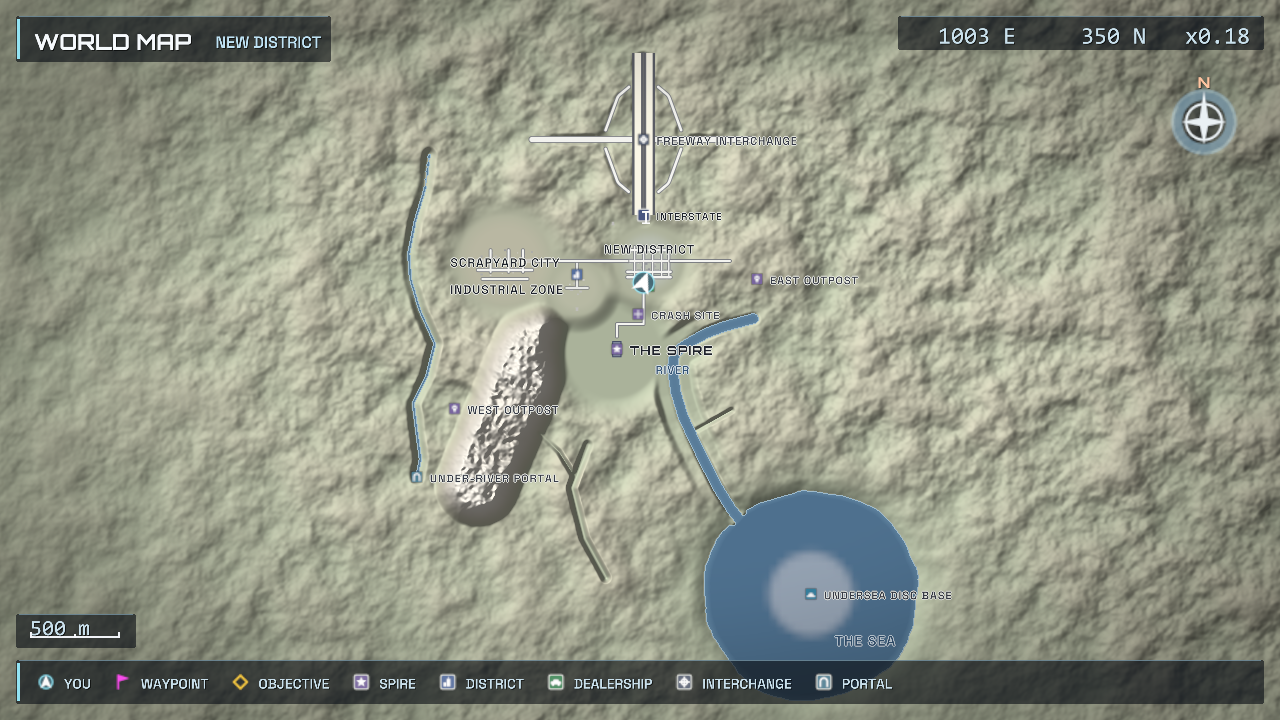
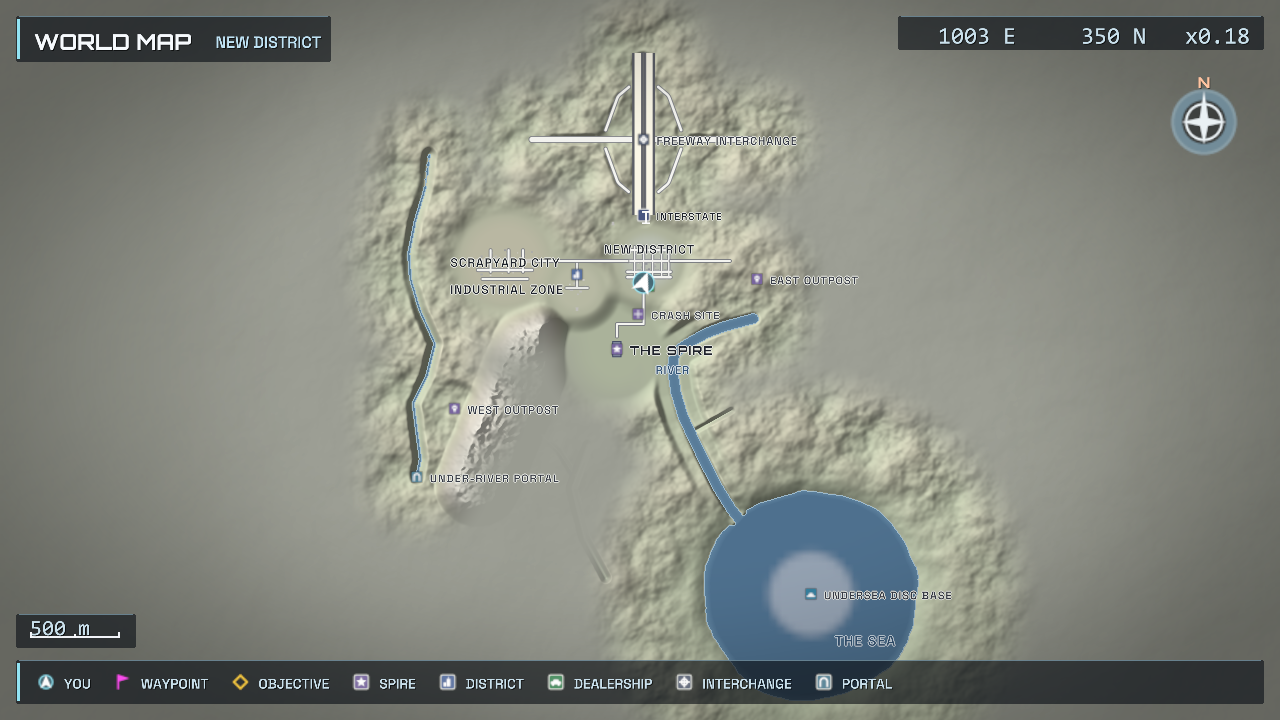
worldmap: fade the wilderness heightfield outside the played envelope (W-MAP v4, part 4)
At overview zoom the whole screen hillshaded as uniform noise and the
playable world was an island in it. GTA lets the map die off past the world
bounds; this bakes that in (map_atlas, not a screen overlay).

MapFeatureSet::envelope: discs over everything played -- district tint
discs, every road (discs stepped along each segment, a smooth tube),
footprints, river + under-river nodes, the ocean basin, every POI, the Spire
rect -- built by snapshotFeatures. The rasterizer samples the union distance
on a coarse grid (<= 192 cells across the tile, bilinear lift) and, on LAND
texels only, lerps across kEnvelopeMarginM (350 m) from the full hillshade to
mappal::kWild -- one flat desaturated tone a shade under low-land -- with the
hillshade contrast collapsed to kWildReliefHint (3.5%) of itself, then a
kWildFarDarken (6%) settling by 1400 m. Water texels overwrite it, so the sea
disc, river, beaches, roads and everything above are byte-identical. Empty
envelope = no fade (pure bake tests unchanged). Overview bake 172 -> 209 ms.

--test-worldmap 64/64: M11j now probes in-envelope texels only; M11s envelope
covers the freeway and not the far wilderness; M11t a 128^2 wilderness tile
at 10 m/texel bakes with luminance spread <= 4 (3.6 measured); M11u the sea
pixel at (1100,-1400) is identical with and without the envelope.

after_overview.png reshot: relief inside, a quiet grey wash outside with a
soft ~350 m ramp and a ghost of relief far out; no halo, inside unchanged.
[…]

diff --git a/app/world_map.cpp b/app/world_map.cpp
@@ -989,6 +989,37 @@ MapFeatureSet WorldMapSystem::snapshotFeatures() const {
         fs.footprints.push_back({ s.cx - s.halfDepth - s.forecourtDepth, s.cz - s.halfWidth, s.cx - s.halfDepth, s.cz + s.halfWidth,
                                   0.1f, MapFootKind::Paved });
     }
+
+    // ---- Played envelope (map_atlas.h: TERRAIN FADE) — discs over everything
+    // the player can reach or see named: district tint discs, every road
+    // (discs stepped along each segment at their own radius, so the union is a
+    // smooth tube), footprints, the river + under-river chain, the sea basin,
+    // and every POI. The wilderness heightfield fades past its margin.
+    {
+        for (const MapDistrict& d : fs.districts) fs.envelope.push_back({ d.cx, d.cz, d.r });
+        for (const MapRoad& r : fs.roads) {
+            const float rr = 120.0f;
+            for (size_t i = 0; i + 1 < r.x.size(); ++i) {
+                const float dx = r.x[i + 1] - r.x[i], dz = r.z[i + 1] - r.z[i];
+                const float len = std::sqrt(dx * dx + dz * dz);
+                const int n = std::max(1, (int)std::ceil(len / rr));
+                for (int k = 0; k <= n; ++k) { const float t = (float)k / (float)n; fs.envelope.push_back({ r.x[i] + dx * t, r.z[i] + dz * t, rr }); }
+            }
+        }
+        for (const MapFootprint& fp : fs.footprints)
+            fs.envelope.push_back({ 0.5f * (fp.x0 + fp.x1), 0.5f * (fp.z0 + fp.z1), 0.5f * std::max(fp.x1 - fp.x0, fp.z1 - fp.z0) + 40.0f });
+        {
+            uint32_t rn = 0;
+            const WorldRiverNode* nodes = worldRiverNodes(rn);
+            for (uint32_t i = 0; i < rn; ++i) fs.envelope.push_back({ nodes[i].x, nodes[i].z, 110.0f });
+            const UnderRiverChain& ch = worldUnderRiverChain();
+            for (uint32_t i = 0; i < ch.n; ++i) fs.envelope.push_back({ ch.x[i], ch.z[i], 90.0f });
+        }
+        fs.envelope.push_back({ kWorldOceanBasinX, kWorldOceanBasinZ, kWorldOceanBasinR });
+        for (const MapPoi& p : m_pois.pois) fs.envelope.push_back({ p.x, p.z, 80.0f });
+        if (b.spireX1 > b.spireX0)
+            fs.envelope.push_back({ 0.5f * (b.spireX0 + b.spireX1), 0.5f * (b.spireZ0 + b.spireZ1), 0.5f * std::max(b.spireX1 - b.spireX0, b.spireZ1 - b.spireZ0) + 60.0f });
+    }
     return fs;
 }
 
@@ -2776,6 +2807,7 @@ bool runWorldMapSelfTest() {
             for (uint32_t y = 4; y < hq.res - 4; y += 3) for (uint32_t x = 4; x < hq.res - 4; x += 3) {
                 const float wx = hq.wx0 + ((float)x + 0.5f) * mpp, wz = hq.wz0 + ((float)y + 0.5f) * mpp;
                 if (worldWaterLevelAt(wx, wz) > kWorldWaterDry) continue;
+                if (mapEnvelopeDistance(fs, wx, wz) > 0.0f) continue;   // in-world texels only (M11s covers the fade)
                 const float gx = (terrainHeightAtWorld(wx + mpp, wz) - terrainHeightAtWorld(wx - mpp, wz)) / (2 * mpp);
                 const float gz = (terrainHeightAtWorld(wx, wz + mpp) - terrainHeightAtWorld(wx, wz - mpp)) / (2 * mpp);
                 const float facing = gx - gz;   // > 0: normal leans to -x/+z = toward the light
@@ -2787,6 +2819,31 @@ bool runWorldMapSelfTest() {
             const double nw = nwN ? nwSum / nwN : 0, se = seN ? seSum / seN : 0;
             check(nwN > 50 && seN > 50 && nw - se > 6.0, "M11j hillshade: NW-facing slopes brighter than SE-facing",
                   "nw=" + std::to_string((int)nw) + " (" + std::to_string(nwN) + ") se=" + std::to_string((int)se) + " (" + std::to_string(seN) + ")");
+        }
+
+        // Wilderness fade: far outside the envelope the hillshade collapses to a
+        // flat wash (luminance spread over a whole tile <= 4), while the sea
+        // disc bakes byte-identical with and without the envelope.
+        {
+            check(!fs.envelope.empty() && mapEnvelopeDistance(fs, 170.0f, 1000.0f) == 0.0f && mapEnvelopeDistance(fs, 6000.0f, 6000.0f) > kEnvelopeFarM,
+                  "M11s envelope covers the freeway and not the far wilderness",
+                  std::to_string(fs.envelope.size()) + " discs, far d=" + std::to_string((int)mapEnvelopeDistance(fs, 6000.0f, 6000.0f)));
+            MapBakeRequest fq; fq.res = 128; fq.wx0 = 5500.0f; fq.wx1 = 6780.0f; fq.wz0 = 5500.0f; fq.wz1 = 6780.0f;   // 10 m/texel, like the overview
+            std::vector<uint8_t> fp; bakeMapTilePixels(fs, fq, fp);
+            double lo = 1e9, hi = -1e9;
+            for (size_t k = 0; k < (size_t)fq.res * fq.res; ++k) {
+                const uint8_t* c = fp.data() + k * 4;
+                const double lum = 0.299 * c[0] + 0.587 * c[1] + 0.114 * c[2];
+                lo = std::min(lo, lum); hi = std::max(hi, lum);
+            }
+            check(hi - lo <= 4.0, "M11t far wilderness bakes flat (luminance spread <= 4)",
+                  "spread " + std::to_string(hi - lo).substr(0, 4) + " around " + std::to_string((int)lo));
+            MapBakeRequest wq; wq.res = 256; wq.wx0 = 600.0f; wq.wx1 = 1624.0f; wq.wz0 = -1912.0f; wq.wz1 = -888.0f;
+            std::vector<uint8_t> withEnv, noEnv; bakeMapTilePixels(fs, wq, withEnv);
+            MapFeatureSet bare = fs; bare.envelope.clear(); bakeMapTilePixels(bare, wq, noEnv);
+            const int sx = (int)((1100.0f - wq.wx0) / (wq.wx1 - wq.wx0) * (float)wq.res), sy = (int)((-1400.0f - wq.wz0) / (wq.wz1 - wq.wz0) * (float)wq.res);
+            const uint8_t* a = withEnv.data() + ((size_t)sy * wq.res + sx) * 4; const uint8_t* b2 = noEnv.data() + ((size_t)sy * wq.res + sx) * 4;
+            check(a[0] == b2[0] && a[1] == b2[1] && a[2] == b2[2] && mapPixelIsWater(a), "M11u sea pixel unchanged by the envelope fade");
         }
 
         // Labels: the slot search never returns a rect overlapping an obstacle

diff --git a/app/map_atlas.cpp b/app/map_atlas.cpp
@@ -155,10 +155,47 @@ void hypsometric(float h, float* out) {
     out[0] = kLandPeak[0]; out[1] = kLandPeak[1]; out[2] = kLandPeak[2];
 }
 
-void paintTerrain(const MapBakeRequest& rq, const HeightGrid& g, Canvas& cv,
+// Coarse grid of the envelope distance over the tile (see header: TERRAIN
+// FADE). Cells are the tile width / 192 but never under 8 m; one apron node
+// each side so the bilinear lift never clamps inside the tile.
+struct EnvGrid {
+    uint32_t n = 0;          // nodes per side
+    float    cell = 1.0f;    // m per cell
+    float    x0 = 0, z0 = 0; // world of node (0,0)
+    std::vector<float> d;
+    bool empty() const { return n == 0; }
+    float at(int i, int j) const {
+        i = std::clamp(i, 0, (int)n - 1); j = std::clamp(j, 0, (int)n - 1);
+        return d[(size_t)j * n + i];
+    }
+    float sample(float wx, float wz) const {
+        const float u = (wx - x0) / cell, v = (wz - z0) / cell;
+        const int i = (int)std::floor(u), j = (int)std::floor(v);
+        const float fu = u - (float)i, fv = v - (float)j;
+        return (at(i, j) * (1 - fu) + at(i + 1, j) * fu) * (1 - fv) + (at(i, j + 1) * (1 - fu) + at(i + 1, j + 1) * fu) * fv;
+    }
+};
+
+void buildEnvGrid(const MapBakeRequest& rq, const MapFeatureSet& f, EnvGrid& eg) {
+    if (f.envelope.empty()) return;
+    const float w = rq.wx1 - rq.wx0;
+    eg.cell = std::max(8.0f, w / 192.0f);
+    eg.n = (uint32_t)std::ceil(w / eg.cell) + 3;
+    eg.x0 = rq.wx0 - eg.cell; eg.z0 = rq.wz0 - eg.cell;
+    eg.d.assign((size_t)eg.n * eg.n, 0.0f);
+    parallelRows(eg.n, [&](uint32_t j0, uint32_t j1) {
+        for (uint32_t j = j0; j < j1; ++j)
+            for (uint32_t i = 0; i < eg.n; ++i)
+                eg.d[(size_t)j * eg.n + i] = mapEnvelopeDistance(f, eg.x0 + (float)i * eg.cell, eg.z0 + (float)j * eg.cell);
+    });
+}
+
+void paintTerrain(const MapBakeRequest& rq, const MapFeatureSet& f, const HeightGrid& g, Canvas& cv,
                   std::vector<float>& waterFrac, MapBakeStats* st) {
     const auto t0 = Clock::now();
     const uint32_t res = rq.res;
+    const float mpp = (rq.wx1 - rq.wx0) / (float)res;
+    EnvGrid eg; buildEnvGrid(rq, f, eg);
     waterFrac.assign((size_t)res * res, 0.0f);
     // Light from the north-west, 40 deg up: north = +Z (= screen up), west = -X.
     const float L[3] = { -0.58f, 0.66f, 0.48f };
@@ -177,6 +214,18 @@ void paintTerrain(const MapBakeRequest& rq, const HeightGrid& g, Canvas& cv,
                 const float shade = std::max(0.0f, nx * L[0] + ny * L[1] + nz * L[2]);
                 const float mul = 0.50f + 0.76f * shade;   // flat ground -> ~1.0
                 c[0] = land[0] * mul; c[1] = land[1] * mul; c[2] = land[2] * mul;
+                // --- wilderness fade (header: TERRAIN FADE). Water texels are
+                // handled below and overwrite this, so the sea disc is untouched.
+                if (!eg.empty()) {
+                    const float ed = eg.sample(rq.wx0 + ((float)x + 0.5f) * mpp, rq.wz0 + ((float)y + 0.5f) * mpp);
+                    if (ed > 0.0f) {
+                        const float t = smoothstep(0.0f, kEnvelopeMarginM, ed);
+                        const float hint = 1.0f + (mul - 1.0f) * mappal::kWildReliefHint;
+                        const float far = 1.0f - mappal::kWildFarDarken * smoothstep(kEnvelopeMarginM, kEnvelopeFarM, ed);
+                        for (int i = 0; i < 3; ++i)
+                            c[i] = (c[i] + ((float)mappal::kWild[i] * hint - c[i]) * t) * far;
+                    }
+                }
                 // --- beach: dry ground within ~4 m of a water surface, not a cliff
                 const float slope = std::sqrt(gx * gx + gz * gz);
                 if (d <= 0.0f && d > -4.0f && slope < 0.45f) {
@@ -523,6 +572,17 @@ bool near3(const uint8_t* p, const uint8_t* ref, int tol) {
            std::abs((int)p[2] - ref[2]) <= tol;
 }
 }
+float mapEnvelopeDistance(const MapFeatureSet& f, float wx, float wz) {
+    if (f.envelope.empty()) return 0.0f;
+    float best = 3.4e38f;
+    for (const MapEnvDisc& e : f.envelope) {
+        const float d = std::sqrt((wx - e.cx) * (wx - e.cx) + (wz - e.cz) * (wz - e.cz)) - e.r;
+        if (d < best) best = d;
+        if (best <= 0.0f) return 0.0f;
+    }
+    return std::max(0.0f, best);
+}
+
 bool mapPixelIsWater(const uint8_t* rgba, int tol) {
     // Anywhere on the shallow..deep ramp (or the shoreline tint) counts.
     if (near3(rgba, mappal::kWaterDeep, tol) || near3(rgba, mappal::kWaterShallow, tol)) return true;
@@ -552,7 +612,7 @@ void bakeMapTilePixels(const MapFeatureSet& features, const MapBakeRequest& rq,
     HeightGrid grid;
     sampleHeightGrid(r, grid, stats);
     std::vector<float> waterFrac;
-    paintTerrain(r, grid, cv, waterFrac, stats);
+    paintTerrain(r, features, grid, cv, waterFrac, stats);
     paintDistricts(r, features, cv, stats);
     paintFootprints(r, features, cv, waterFrac, stats);
     paintRoads(r, features, cv, stats);

diff --git a/app/map_atlas.h b/app/map_atlas.h
@@ -34,6 +34,18 @@
 //               world AABBs (drawn via exact rect coverage, so edges are AA at
 //               any zoom): flat grey fills by height band with a 1-texel darker
 //               edge; the Spire is its own landmark tone.
+//   1b. TERRAIN FADE  GTA lets the map die off outside the world: the played
+//               envelope is the union of MapFeatureSet::envelope discs (built
+//               by the snapshot from districts, roads, footprints, river, sea,
+//               POIs). Inside: full hillshade. Across kEnvelopeMarginM the
+//               land lerps to kWild — one flat desaturated tone a shade under
+//               the low-land tint — with the hillshade contrast collapsing to
+//               kWildReliefHint of itself (a ghost of relief, not paint), and
+//               a further kWildFarDarken settles by kEnvelopeFarM. The
+//               distance field is sampled on a coarse grid (<= 192 cells
+//               across the tile) and bilinearly lifted — the union-of-discs
+//               distance is smooth enough that the ramp shows no facets.
+//               Water, beaches, roads and everything above are untouched.
 //   5. ROADS    ribbons by class (Street < Arterial < Ramp < Freeway) each as a
 //               DISTANCE FIELD to its polylines — the union-of-min-distance
 //               gives rounded joins for free and the casing/fill edges are
@@ -87,11 +99,25 @@ struct MapDistrict {
     float rgb[3];           // sRGB 0..1 tint
 };
 
+// One disc of the PLAYED ENVELOPE: the union of these discs is where the game
+// happens (districts, every road, footprints, river, sea, POIs). Terrain
+// outside it fades to a quiet flat wash over kEnvelopeMarginM (see TERRAIN
+// FADE in the header). Empty = no fade (the pure bake tests).
+struct MapEnvDisc { float cx, cz, r; };
+constexpr float kEnvelopeMarginM = 350.0f;   // full hillshade -> flat wash across this band
+constexpr float kEnvelopeFarM    = 1400.0f;  // ...then a very subtle darkening settles by here
+
 struct MapFeatureSet {
     std::vector<MapRoad>      roads;
     std::vector<MapFootprint> footprints;
     std::vector<MapDistrict>  districts;
+    std::vector<MapEnvDisc>   envelope;
 };
+
+// Distance (m, >= 0) from world (wx,wz) to the played envelope; 0 inside it.
+// Brute force over the discs — the bake uses a coarse grid of this, the tests
+// call it directly to pick in-world vs wilderness probes.
+float mapEnvelopeDistance(const MapFeatureSet& features, float wx, float wz);
 
 struct MapBakeRequest {
     float    wx0 = 0, wz0 = 0, wx1 = 0, wz1 = 0;   // world rect covered
@@ -142,6 +168,9 @@ constexpr uint8_t kWalk[3]         = { 218, 216, 210 };
 constexpr uint8_t kLandmark[3]     = { 134, 142, 166 };
 constexpr uint8_t kLandmarkEdge[3] = { 70, 76, 100 };
 constexpr uint8_t kVoid[3]         = { 150, 156, 142 };   // beyond the overview tile
+constexpr uint8_t kWild[3]         = { 156, 158, 148 };   // wilderness wash past the envelope (flat, desaturated, a shade under kLandLow)
+constexpr float   kWildReliefHint  = 0.035f;              // fraction of the hillshade kept in the wash (0 = painted flat)
+constexpr float   kWildFarDarken   = 0.06f;               // extra darkening settled by kEnvelopeFarM
 }
 
 // Bake one tile. `outRgba` is resized to res*res*4. Thread-safe (pure); the
